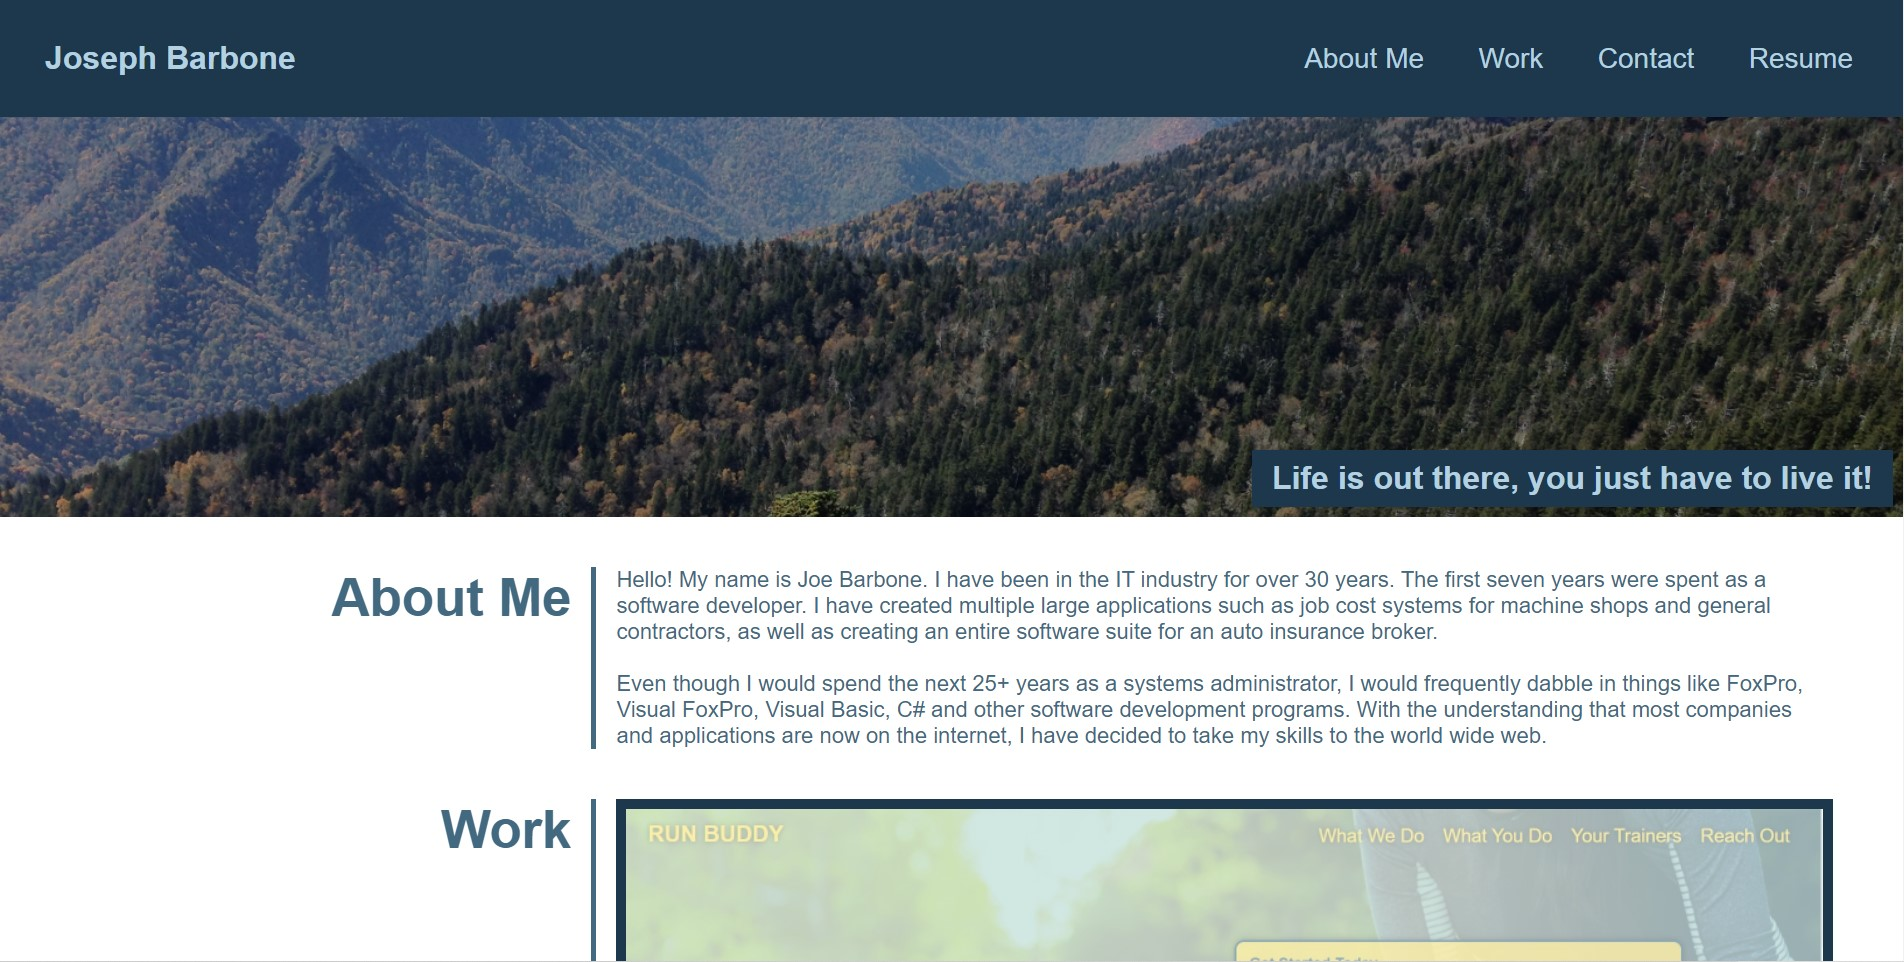
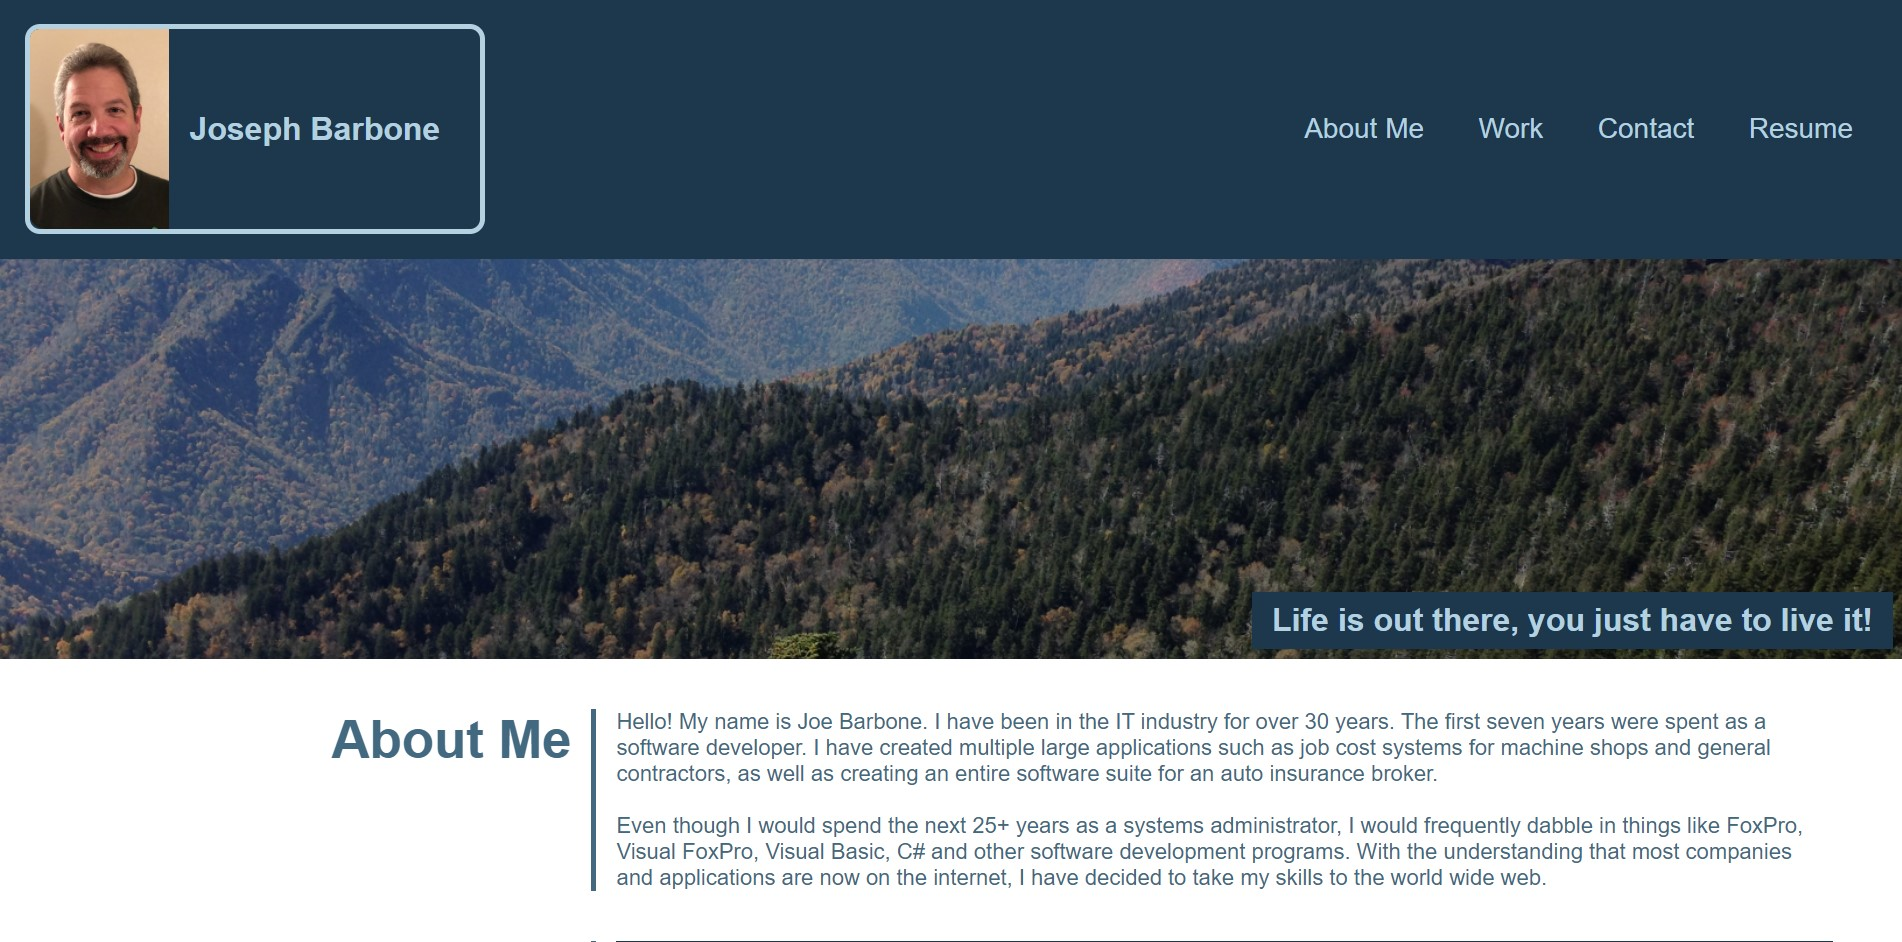
Updated with picture, fixed README.md to include live site section

diff --git a/css/style.css b/css/style.css
@@ -10,12 +10,6 @@
     font-family: arial;
 }
 
-/* .main-wrapper {
-    border: 5px solid black;
-    border-radius: 15px;
-    padding: 10px;
-} */
-
 /* header section styling */
 header {
     display: flex;
@@ -34,8 +28,21 @@ header h1 {
     left: -25px;
 }
 
+.student-name {
+    display: flex;
+    align-items: center;
+    border: 5px solid var(--text-color);
+    border-radius: 15px;
+}
+
 .student-name a {
     text-decoration: none;
+}
+
+.student-name img {
+    height: 200px;
+    border-radius: 9px 0 0 15px;
+    z-index: 998;
 }
 
 header ul li {
@@ -205,6 +212,7 @@ section {
 
 @media screen and (max-width: 768px) {
     
+    
     section {
         margin: 50px 25px;
     }
@@ -237,10 +245,6 @@ section {
         line-height: 1.5;
     }
 
-    /* .student-name h1 {
-        text-align: center;
-    } */
-
     header nav {
         text-align: center;
     }
@@ -248,7 +252,17 @@ section {
     header nav ul {
         text-align: center;
     }
-    
+
+    .student-name {
+        flex-wrap: wrap;
+        border: none;
+    }
+
+    .student-name img {
+        margin: 20px 0 0 20px;
+        border-radius: 15px;
+    }
+
     .hero h1 {
         font-size: 1em;
     }

diff --git a/index.html b/index.html
@@ -11,6 +11,7 @@
     <div class="main-wrapper">
         <header>
             <div class="student-name">
+                <img src="./images/joe_small.png" alt="Joe Barbone headshot">
                 <a href="https://joebarbone.github.io/challenge-w2-portfolio/" target="_blank"><h1>Joseph Barbone</h1></a>
             </div>
 

diff --git a/README.md b/README.md
@@ -43,3 +43,6 @@ Bottom of site
 
 ## Summary
 This site was created using HTML/CSS. The responsive design is obtained by using Flexbox and associated tags, elements, settings and values.
+
+## Live Site
+[Live Portfolio - Joseph Barbone](https://joebarbone.github.io/challenge-w2-portfolio)
